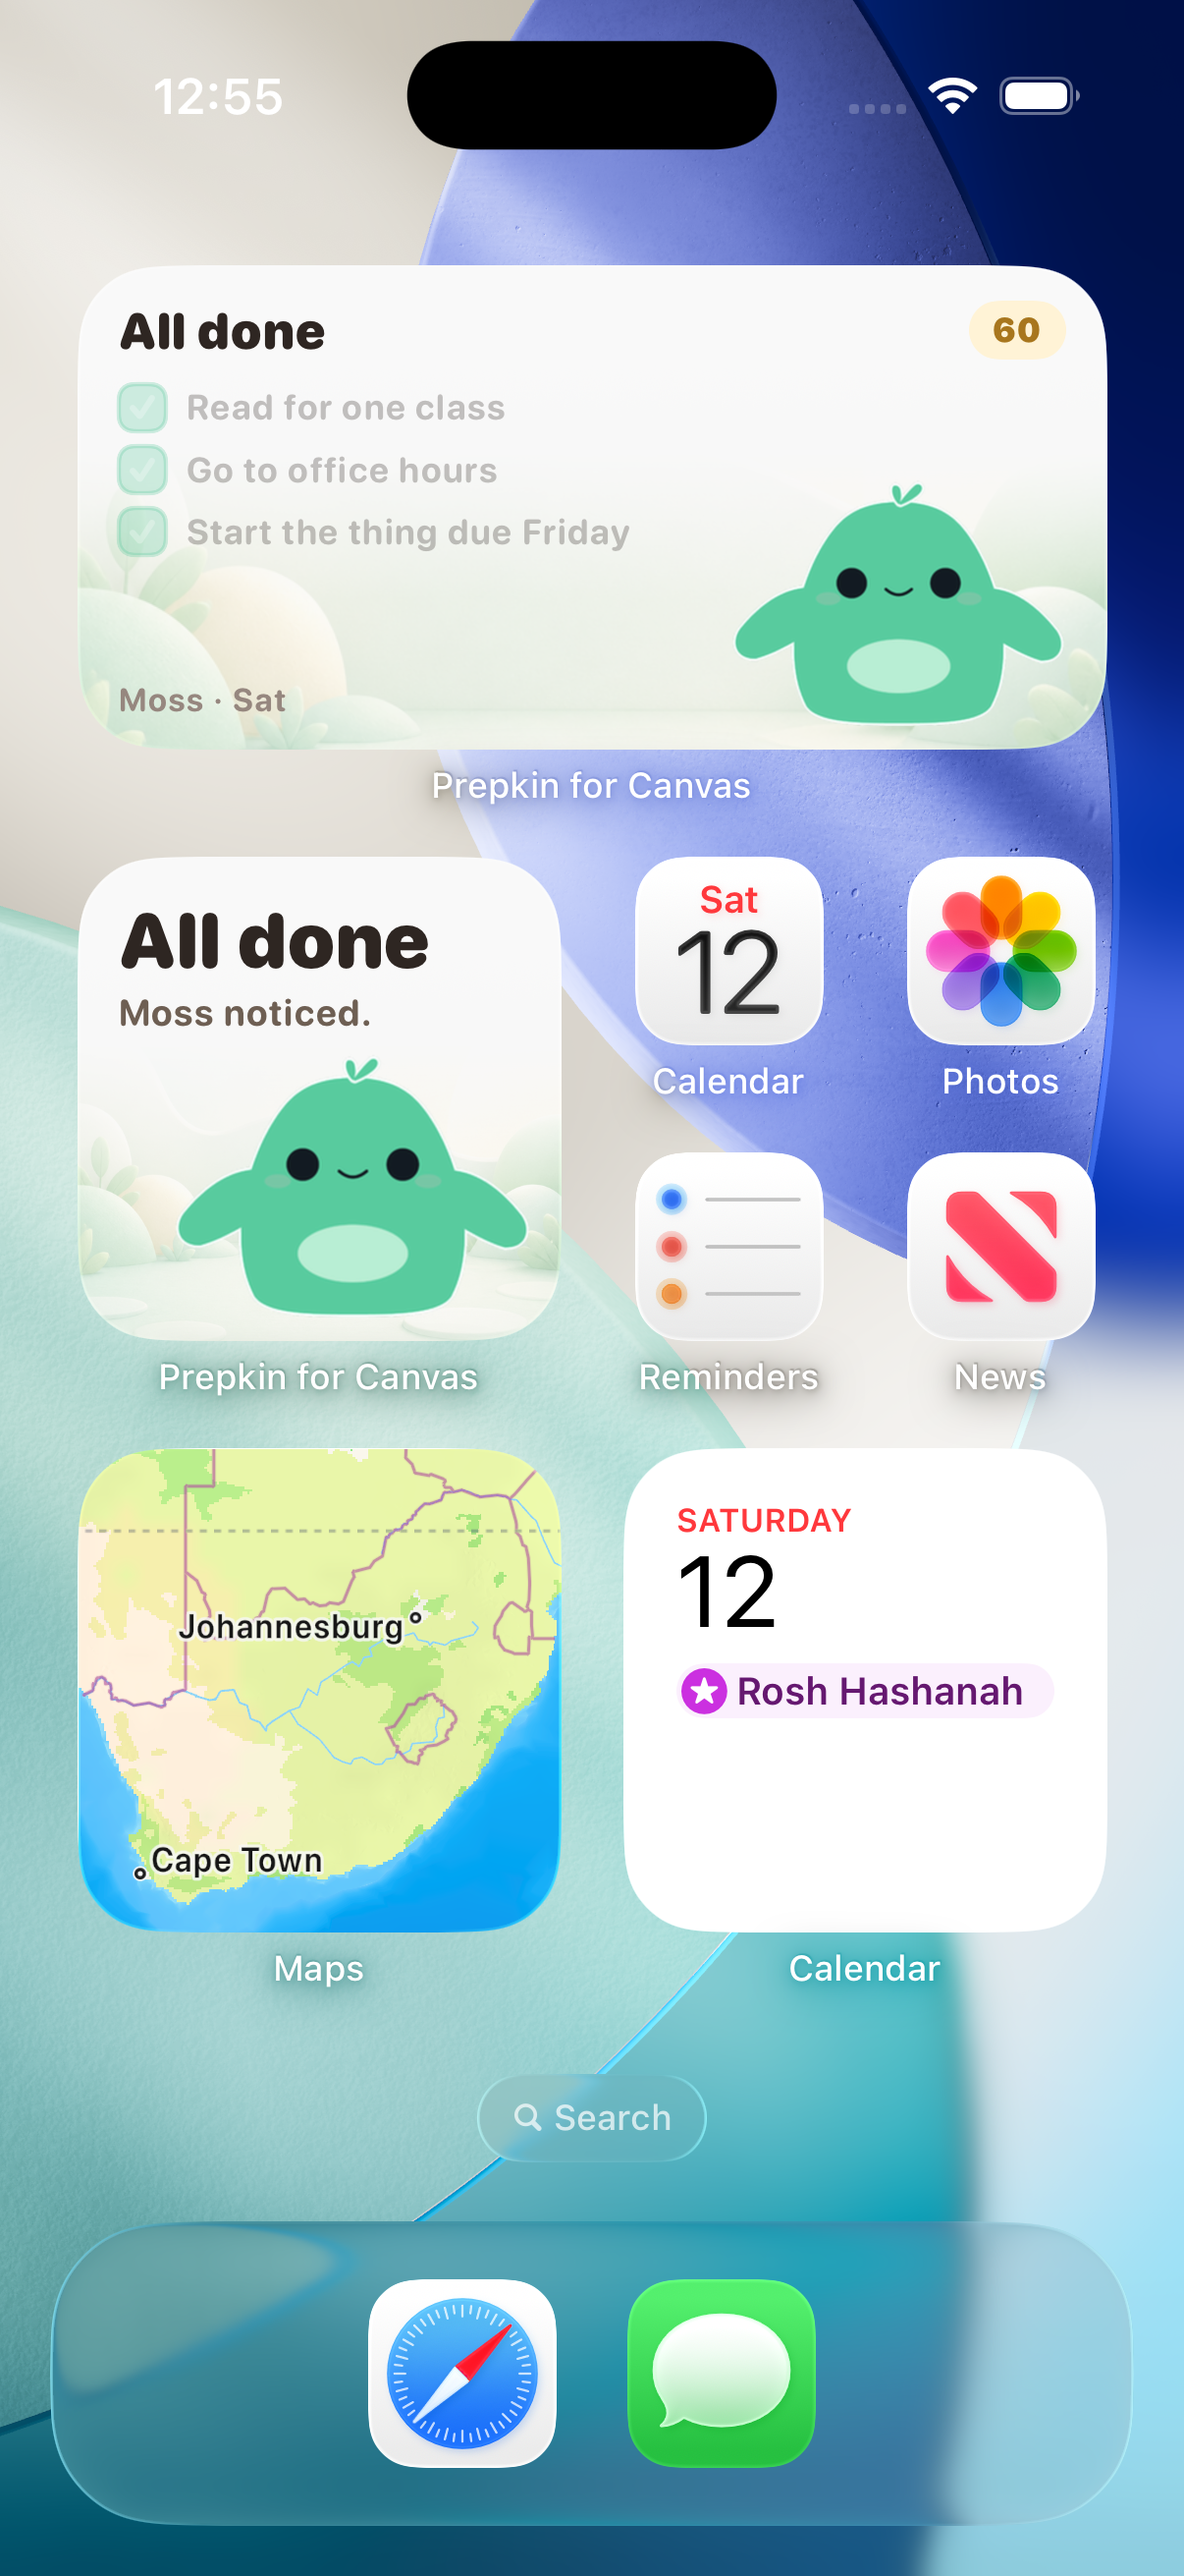
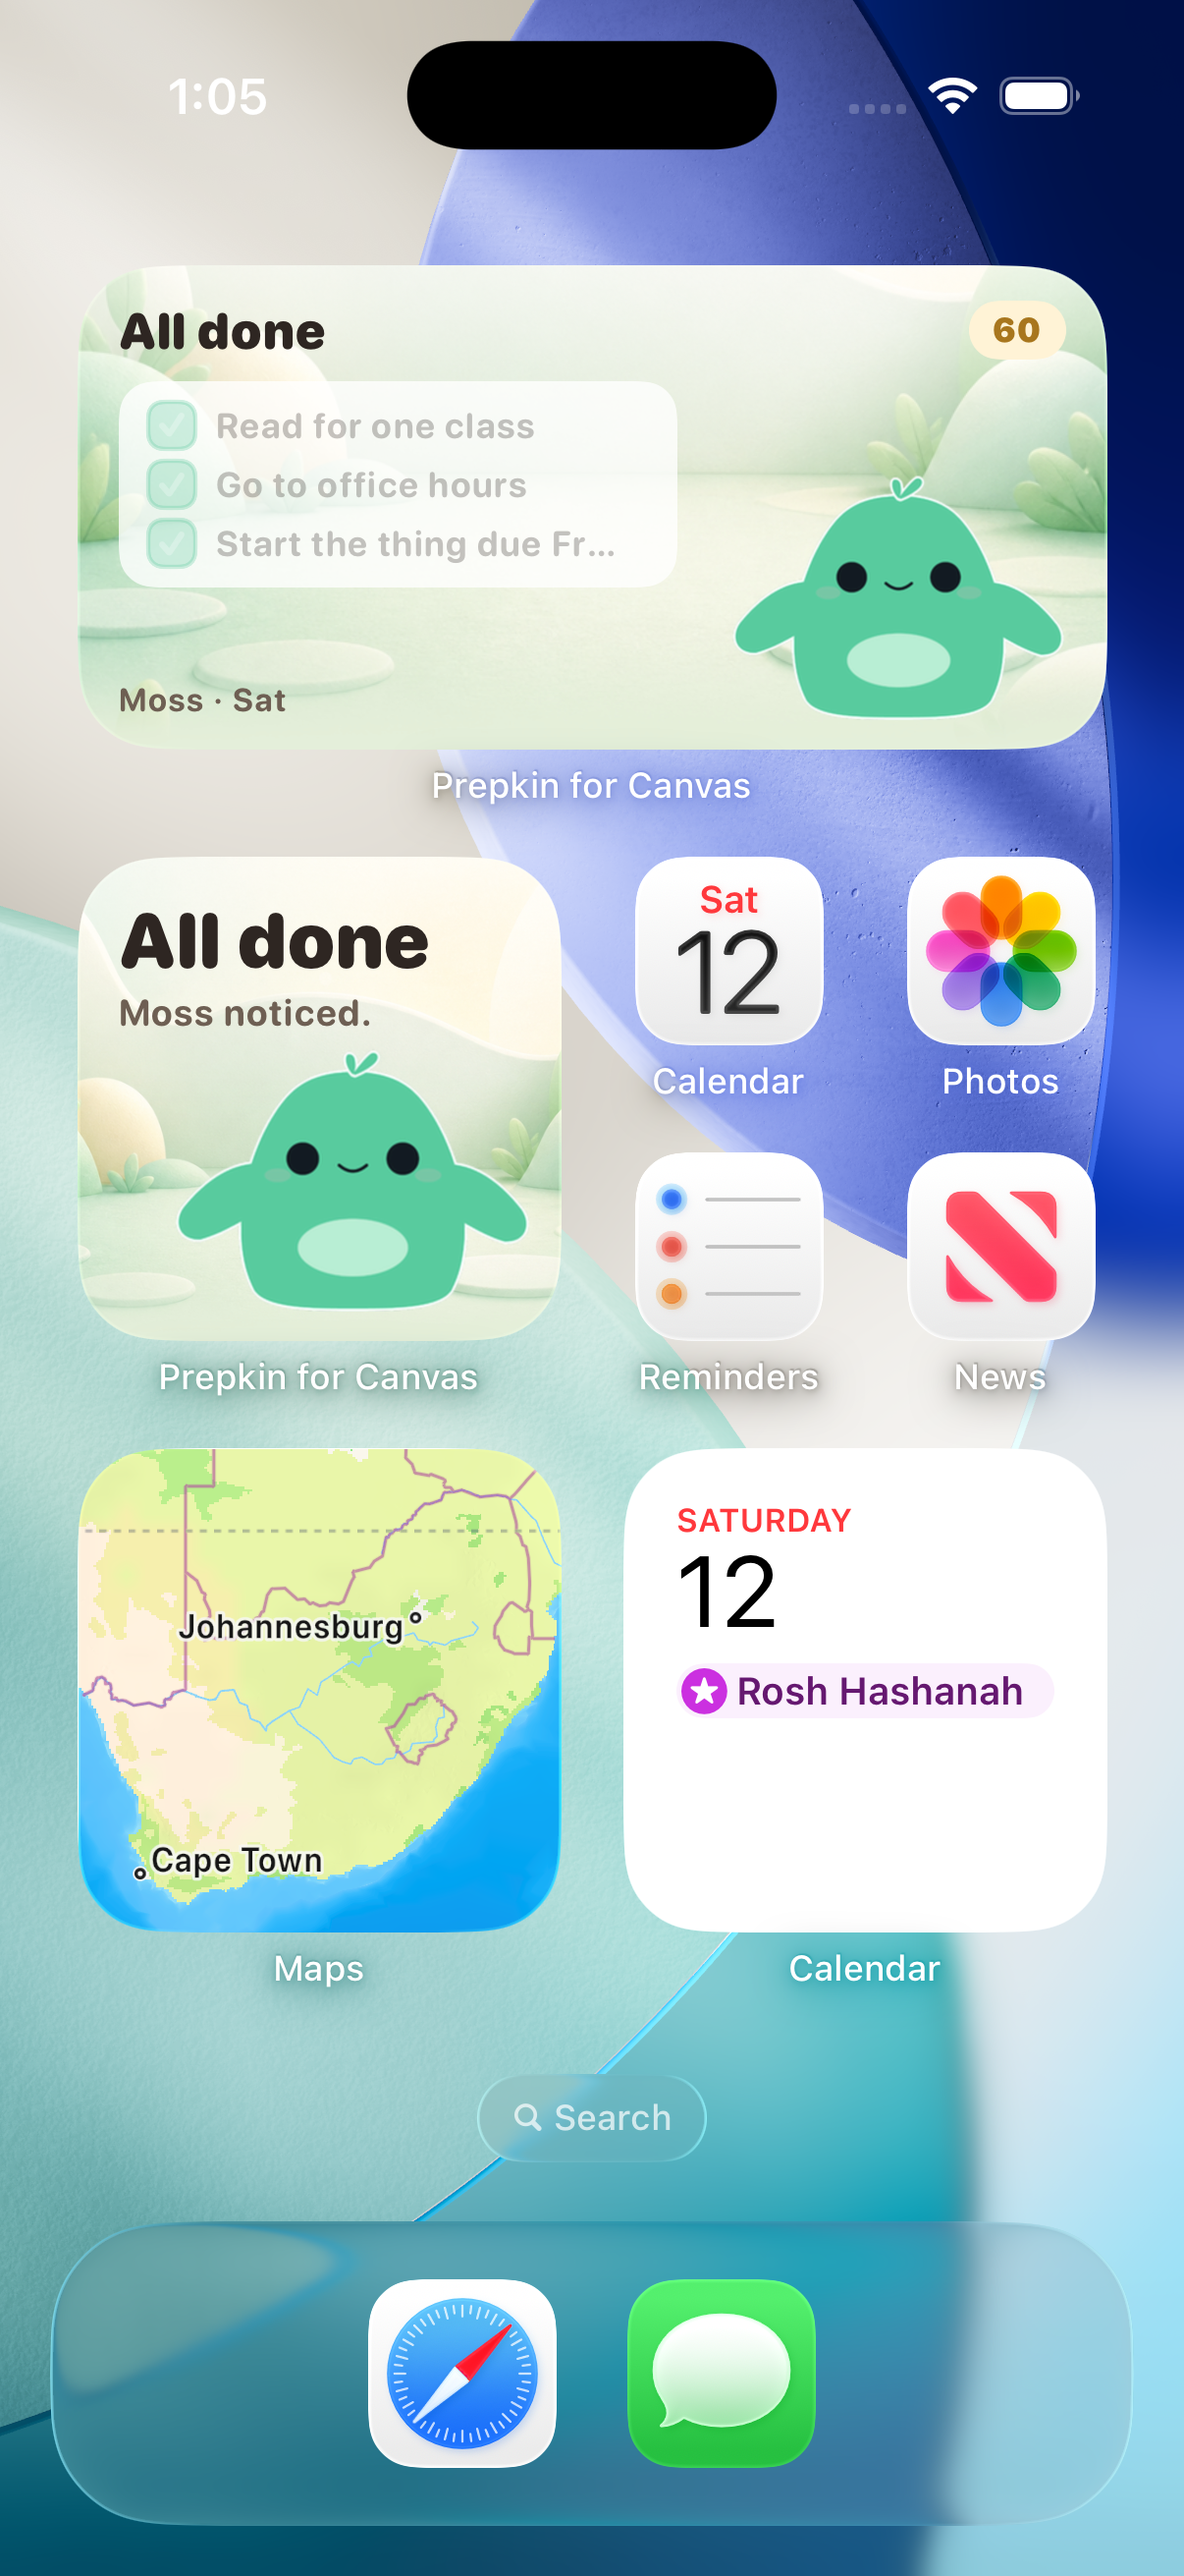
Widget: the fish in its own tank
Finch's widget is the bird in its own room, decor and all. Ours drew a
faded strip of the lagoon behind whatever tank the student had. Now the
snapshot carries the scene, the widget catalogue carries all five plates,
and the tile is the tank full bleed with the fish on the sand and a soft
wash over the sky for the head. Deep is dark, so its text goes cream. The
medium's rows sit on a card so they read over any water.

diff --git a/ios/Widget/PrepkinWidget.swift b/ios/Widget/PrepkinWidget.swift
@@ -69,7 +69,7 @@ extension WidgetSnapshot {
     /// What the gallery shows before the app has written anything.
     static let sample = WidgetSnapshot(
         speciesID: "slime", stage: 2, costumeID: "none", name: "Moss",
-        kinAsset: "sprout-mint-2", plainAsset: "sprout-mint-2", coins: 240,
+        kinAsset: "sprout-mint-2", plainAsset: "sprout-mint-2", sceneID: "lagoon", coins: 240,
         tasks: [
             Task(id: "a", title: "Bio quiz", dueAt: nil, done: false, isDaily: false),
             Task(id: "b", title: "Essay outline", dueAt: nil, done: false, isDaily: true),
@@ -109,20 +109,21 @@ struct SmallWidget: View {
     var body: some View {
         let snap = entry.snapshot ?? .sample
         let tile = entry.snapshot.map { WidgetLine.tile(for: $0, now: entry.date) } ?? (head: "Hi", sub: "Open Prepkin once.")
+        let scene = TankScene.scene(for: snap)
         ZStack(alignment: .bottomTrailing) {
-            TankBand()
+            TankScene(scene: scene)
             KinStill(snapshot: snap, size: Self.kinSize)
                 .padding(.trailing, 8)
-                .padding(.bottom, 8)
+                .padding(.bottom, 10)
             VStack(alignment: .leading, spacing: 1) {
                 Text(tile.head)
                     .font(.system(size: 26, weight: .black, design: .rounded))
-                    .foregroundStyle(Theme.ink)
+                    .foregroundStyle(scene.isDark ? Theme.onDarkWarm : Theme.ink)
                     .lineLimit(1)
                     .minimumScaleFactor(0.6)
                 Text(tile.sub)
                     .font(.system(size: 12.5, weight: .bold, design: .rounded))
-                    .foregroundStyle(Theme.tabInk)
+                    .foregroundStyle(scene.isDark ? Theme.onDarkWarm.opacity(0.85) : Theme.tabInk)
                     .lineLimit(2)
                     .minimumScaleFactor(0.85)
                     .fixedSize(horizontal: false, vertical: true)
@@ -136,21 +137,32 @@ struct SmallWidget: View {
     }
 }
 
-/// The lagoon plate, faded into the paper: the same world as Home, at a whisper.
-struct TankBand: View {
+/// The student's own tank, full bleed, the floor at the bottom so the fish
+/// stands on the sand. Finch's widget is the bird in its own room, with the
+/// student's decor; this is the same promise with the tank they bought. A soft
+/// wash over the top keeps the head legible on the sky.
+struct TankScene: View {
+    let scene: Scene0
+
     var body: some View {
         GeometryReader { geo in
-            Image("scene-lagoon")
-                .resizable()
-                .scaledToFill()
-                .frame(width: geo.size.width, height: geo.size.height * 0.62)
-                .clipped()
-                .opacity(0.42)
-                .mask(LinearGradient(colors: [.clear, .black, .black],
-                                     startPoint: .top, endPoint: .bottom))
-                .frame(maxHeight: .infinity, alignment: .bottom)
+            ZStack(alignment: .top) {
+                Image(scene.asset)
+                    .resizable()
+                    .scaledToFill()
+                    .frame(width: geo.size.width, height: geo.size.height, alignment: .bottom)
+                    .clipped()
+                LinearGradient(colors: [(scene.isDark ? Color.black : Color.white).opacity(scene.isDark ? 0.34 : 0.62),
+                                        .clear],
+                               startPoint: .top, endPoint: .bottom)
+                    .frame(height: geo.size.height * 0.55)
+            }
         }
         .accessibilityHidden(true)
+    }
+
+    static func scene(for snapshot: WidgetSnapshot) -> Scene0 {
+        Scene0.find(snapshot.sceneID ?? "lagoon")
     }
 }
 
@@ -247,34 +259,42 @@ struct MediumWidget: View {
         let tile = entry.snapshot.map { WidgetLine.tile(for: $0, now: entry.date) } ?? (head: "Hi", sub: "Open Prepkin once.")
         let rows = WidgetLine.rows(for: snap, now: entry.date)
         let open = WidgetLine.today(snap, now: entry.date).filter { !$0.done }.count
+        let scene = TankScene.scene(for: snap)
         ZStack(alignment: .bottomTrailing) {
-            TankBand()
+            TankScene(scene: scene)
             KinStill(snapshot: snap, size: 118)
                 .padding(.trailing, 12)
-                .padding(.bottom, 8)
+                .padding(.bottom, 10)
             VStack(alignment: .leading, spacing: 0) {
                 // The head alone: the rows under it say what is left, so the
                 // sentence the small tile needs would only repeat them.
                 HStack(alignment: .top, spacing: 8) {
                     Text(rows.isEmpty ? "\(tile.head). \(tile.sub)" : tile.head)
                         .font(.system(size: 17, weight: .black, design: .rounded))
-                        .foregroundStyle(Theme.ink)
+                        .foregroundStyle(scene.isDark ? Theme.onDarkWarm : Theme.ink)
                         .lineLimit(1)
                         .minimumScaleFactor(0.8)
                     Spacer(minLength: 0)
                     CoinPill(coins: snap.coins)
                 }
-                VStack(alignment: .leading, spacing: 5) {
-                    ForEach(rows) { task in
-                        TaskBoxRow(task: task)
+                // The rows sit on a card so they read over any tank.
+                if !rows.isEmpty {
+                    VStack(alignment: .leading, spacing: 4) {
+                        ForEach(rows) { task in
+                            TaskBoxRow(task: task)
+                        }
                     }
+                    .padding(.horizontal, 9)
+                    .padding(.vertical, 7)
+                    .background(RoundedRectangle(cornerRadius: 12, style: .continuous)
+                        .fill(Color.white.opacity(0.78)))
+                    .padding(.top, 7)
+                    .padding(.trailing, 118)
                 }
-                .padding(.top, 8)
-                .padding(.trailing, 132)
                 Spacer(minLength: 2)
                 Text(open > 0 ? "Tap a box to finish it" : WidgetLine.stamp(snap.name, entry.date))
                     .font(.system(size: 11, weight: .bold, design: .rounded))
-                    .foregroundStyle(Theme.muted)
+                    .foregroundStyle(scene.isDark ? Theme.onDarkWarm.opacity(0.8) : Theme.tabInk)
                     .lineLimit(1)
                     .padding(.trailing, 132)
             }

diff --git a/ios/Shared/WidgetSnapshot.swift b/ios/Shared/WidgetSnapshot.swift
@@ -27,6 +27,10 @@ struct WidgetSnapshot: Codable, Equatable {
     var kinAsset: String
     /// The bare coat at the same stage, for a costume the widget has no still of.
     var plainAsset: String
+    /// The student's own tank, drawn full bleed behind the fish the way Finch's
+    /// widget draws the bird's own room. Optional so an older file still reads;
+    /// the widget falls back to the lagoon.
+    var sceneID: String?
     var coins: Int
     var tasks: [Task]
     var allDone: Bool

diff --git a/ios/Sources/Core/WidgetSnapshotBuilder.swift b/ios/Sources/Core/WidgetSnapshotBuilder.swift
@@ -16,6 +16,7 @@ extension WidgetSnapshot {
             name: kin.displayName,
             kinAsset: SproutImage.asset(speciesID: kin.speciesID, level: kin.level, skin: kin.skinID),
             plainAsset: SproutImage.asset(speciesID: kin.speciesID, level: kin.level, skin: "classic"),
+            sceneID: state.sceneID,
             coins: state.ledger.balance,
             tasks: tasks,
             allDone: state.allDone,

diff --git a/design/screenshots/widget-2026-09-12/README.md b/design/screenshots/widget-2026-09-12/README.md
@@ -11,6 +11,7 @@ notification was delivered with `xcrun simctl push`.
 |---|---|---|
 | Small widget: the kin, one line, tap opens the app | Finch's home screen widget (the bird and a line); Apple's Weather and Reminders for the size grammar, small is one thing | [d11b11e0](https://mobbin.com/screens/d11b11e0-3abc-4c9a-8cc7-31e98c571367) (the "Lee widget" card shows the widget itself) |
 | The small tile's words: a big head ("2 left") and a short line under it, nothing else | Duolingo "845 / Last chance!", Me+ "7 / Awesome!", Mimo "1 / Well done!", Alan "0 / Let's get rolling!", Finch's one-word adventure state. A number or two words, a few more words, the mascot. No sentences, no name stamp. | same five screens as the row below |
+| The tile is the student's own tank, full bleed, the fish on the sand | Finch's widget is the bird in its own room with the student's decor and environment ("your choices in clothing, accessories, room decor and even environment are present in the widget", Deconstructor of Fun, 2026-03). Ours draws the tank they bought; Deep flips the text to cream. | [d11b11e0](https://mobbin.com/screens/d11b11e0-3abc-4c9a-8cc7-31e98c571367) |
 | The kin's size on the small tile: 126pt of 170, three quarters | Measured off five pet widgets: Finch ~88% wide, Duolingo ~75%, Mimo ~75%, Me+ ~60%, Alan 100%. The middle of that, and still clear of a three-line title. | [c78046b1](https://mobbin.com/screens/c78046b1-5d17-4225-ad76-2d66a72ac8bd) Duolingo, [f5333bf0](https://mobbin.com/screens/f5333bf0-bc83-4ccc-aa63-615816678920) Mimo, [64d3a0fd](https://mobbin.com/screens/64d3a0fd-6639-4638-a576-ebb7cf2c3d93) Me+, [59d37b2f](https://mobbin.com/screens/59d37b2f-8b61-4da5-8e95-e917a1b7f622) Alan |
 | Medium widget: a list with boxes | Apple's Reminders widget: medium is a list | — |
 | Install card "Want Moss on your home screen?" | Finch's "Lee widget" card: the pet in a widget on a drawn phone, Add / No thanks | [d11b11e0](https://mobbin.com/screens/d11b11e0-3abc-4c9a-8cc7-31e98c571367) |
@@ -28,6 +29,7 @@ Widget states (small and medium together, page 1 of the home screen):
 - `widget-all-done.png` — "All done" over "Moss noticed."
 - `widget-nothing-on-the-list.png` — every template off: a day-bank line split in two, "Moss says hi" over "That's all."
 - `widget-on-shift.png` — a shift running in Focus: "On shift" over "until 1:21 PM"
+- `widget-deep-tank.png` — the Deep tank: cream text on the dark water, the rows on their card
 - `widget-medium-box-tapped.png` — a box tapped on the medium: the row ticks and the line counts it; coins stay at 20 because the app has not paid yet
 - `widget-box-paid-on-open.png` — the app opened: 40 coins, the row done, the mark file cleared
 
